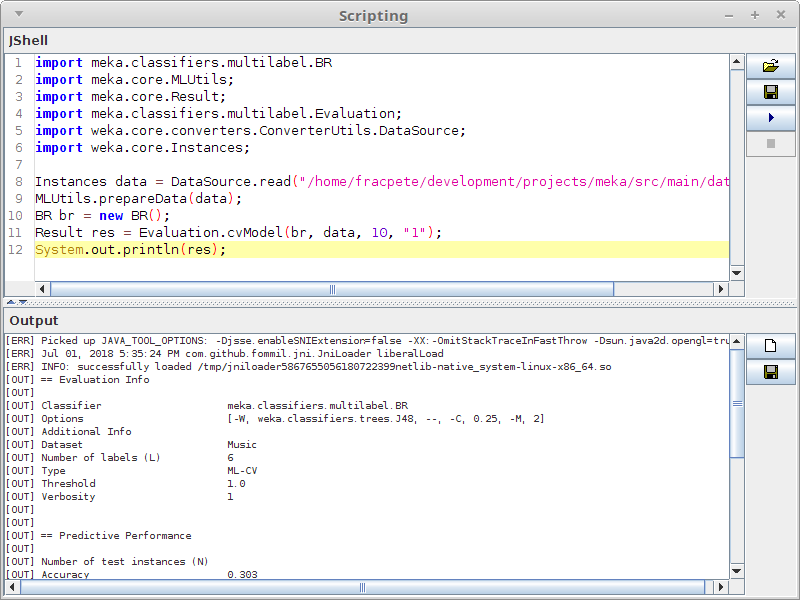
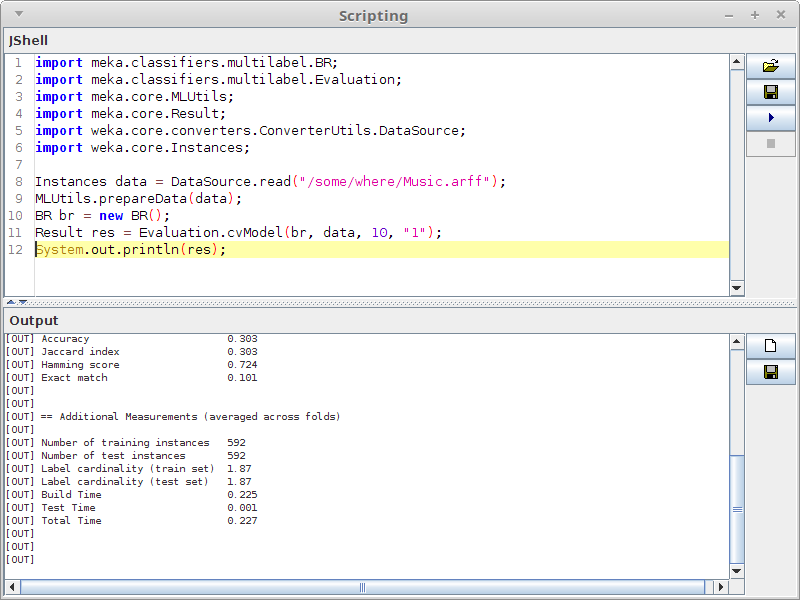
added some example code

diff --git a/src/main/latex/Tutorial/Tutorial.tex b/src/main/latex/Tutorial/Tutorial.tex
@@ -455,6 +455,40 @@ to compile. For this to work, the tool relies on Java's \textit{jshell} utility\
 which is available starting with Java 9. This tool makes up for the lack of a
 simple command-line interface, like Weka has.
 
+\noindent Here is an example script:
+{\scriptsize
+\begin{verbatim}
+import meka.classifiers.multilabel.BR;
+import meka.classifiers.multilabel.Evaluation;
+import meka.core.MLUtils;
+import meka.core.Result;
+import weka.core.converters.ConverterUtils.DataSource;
+import weka.core.Instances;
+
+Instances data = DataSource.read("/some/where/Music.arff");
+MLUtils.prepareData(data);
+BR br = new BR();
+Result res = Evaluation.cvModel(br, data, 10, "1");
+System.out.println(res);
+\end{verbatim}}
+
+\noindent If you only want to execute a classifier's command-line options
+instead of going low-level Java, you can do this, too. For this, you only
+need to call the \textit{main} method of a classifier (since this method is
+static, you don't need to instantiate an object)):
+{\scriptsize
+\begin{verbatim}
+import meka.classifiers.multilabel.BR;
+
+BR.main(new String[]{
+   "-t",
+   "/some/where/Music.arff",
+});
+\end{verbatim}}
+\noindent \textbf{NB:} When using the \textit{main} method, jshell does not
+exit properly and you need to stop the execution yourself (you can ignore the
+error that pops up then).
+
 \begin{figure}
 	\centering
 	\includegraphics[height=0.55\textwidth]{scripting.png}
